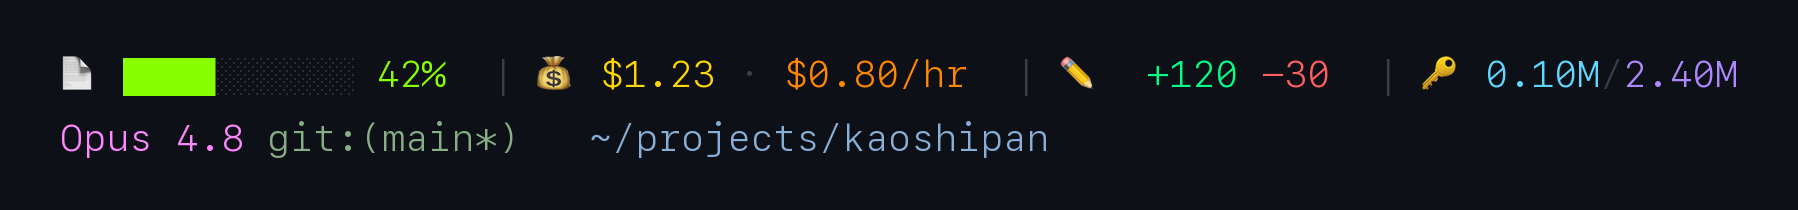
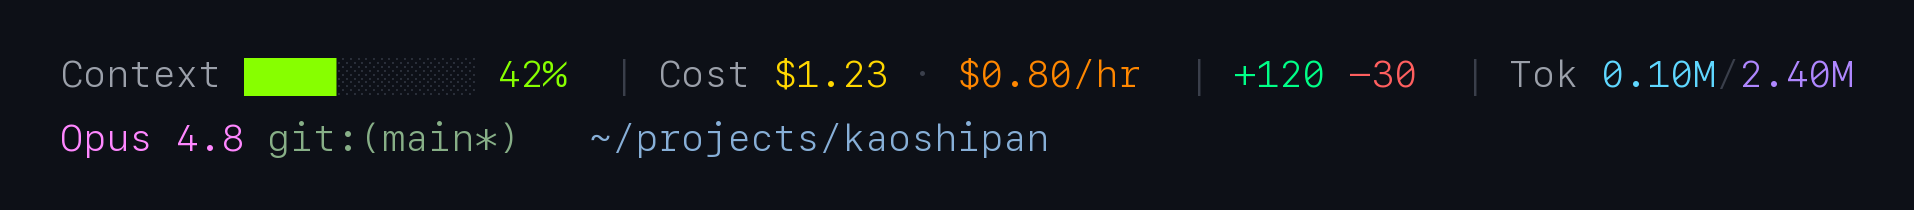
revert: drop emoji, keep colored text labels; regenerate preview

diff --git a/scripts/_render.py b/scripts/_render.py
@@ -21,22 +21,21 @@ C = {
     "48": (0, 255, 135), "203": (255, 95, 95), "81": (95, 215, 255),
     "141": (175, 135, 255), "213": (255, 135, 255), "108": (135, 175, 135),
     "110": (135, 175, 215), "dim": (58, 63, 75), "bf": (135, 255, 0),
-    "be": (42, 47, 58), "fg": (200, 205, 215),
+    "be": (42, 47, 58), "fg": (200, 205, 215), "gray": (155, 160, 170),
 }
 
 # token stream: ("text"|"emoji", content, color_key)
 line1 = [
-    ("emoji", "📄", None), ("sp", " ", None),
+    ("text", "Context", "gray"), ("sp", " ", None),
     ("text", "████", "bf"), ("text", "░░░░░░", "be"), ("sp", " ", None),
     ("text", "42%", "118"), ("sp", "  ", None),
     ("text", "|", "dim"), ("sp", " ", None),
-    ("emoji", "💰", None), ("sp", " ", None), ("text", "$1.23", "220"), ("sp", " ", None),
+    ("text", "Cost", "gray"), ("sp", " ", None), ("text", "$1.23", "220"), ("sp", " ", None),
     ("text", "·", "dim"), ("sp", " ", None), ("text", "$0.80/hr", "208"), ("sp", "  ", None),
     ("text", "|", "dim"), ("sp", " ", None),
-    ("emoji", "✏️", None), ("sp", "  ", None),
     ("text", "+120", "48"), ("sp", " ", None), ("text", "-30", "203"), ("sp", "  ", None),
     ("text", "|", "dim"), ("sp", " ", None),
-    ("emoji", "🔑", None), ("sp", " ", None),
+    ("text", "Tok", "gray"), ("sp", " ", None),
     ("text", "0.10M", "81"), ("text", "/", "dim"), ("text", "2.40M", "141"),
 ]
 line2 = [

diff --git a/SKILL.md b/SKILL.md
@@ -17,14 +17,12 @@ description: >-
 ### 第一行 — 实时指标
 | 显示 | 含义 | JSON 来源 | 颜色 |
 |------|------|-----------|------|
-| `📄 ████░░ 42%` | **上下文** 占用进度条 + 百分比 | `.context_window.used_percentage` | 118 lime 青柠 |
-| `💰 $1.23` | 本会话 **花费**(美元) | `.cost.total_cost_usd` | 220 gold 金 |
+| `Context ████░░ 42%` | **上下文** 占用进度条 + 百分比 | `.context_window.used_percentage` | 118 lime 青柠 |
+| `Cost $1.23` | 本会话 **花费**(美元) | `.cost.total_cost_usd` | 220 gold 金 |
 | `· $0.80/hr` | 燃烧率(每小时,需 ccusage) | `ccusage statusline` | 208 orange 橙 |
-| `✏️ +120 -30` | 本会话增/删行数 | `.cost.total_lines_added/removed` | 48 翠绿 / 203 珊瑚红 |
-| `🔑 0.10M` | **当前窗口** Token 消耗(百万) | `.context_window.total_input_tokens` | 81 cyan 青 |
+| `+120 -30` | 本会话增/删行数 | `.cost.total_lines_added/removed` | 48 翠绿 / 203 珊瑚红 |
+| `Tok 0.10M` | **当前窗口** Token 消耗(百万) | `.context_window.total_input_tokens` | 81 cyan 青 |
 | `/2.40M` | 会话累计 Token(读 transcript 求和) | `.transcript_path` 逐行 usage | 141 violet 紫 |
-
-> emoji 图标:📄上下文 / 💰花费 / ✏️ 改动行数 / 🔑Token。终端用 Apple Color Emoji 彩色渲染;`✏️` 后补一个空格防变体选择符占位糊。不想要 emoji 就把 `line2=` 那几行的 emoji 换回 `${GRAY}Context${RESET}` 之类文字标签即可。
 
 ### 第二行 — 身份信息
 | 显示 | 含义 | JSON 来源 | 颜色 |

diff --git a/README.md b/README.md
@@ -10,10 +10,10 @@ Line 1 = live metrics (context / cost / tokens), line 2 = identity (model / git 
 ## What it shows
 
 **Line 1 — metrics**
-- `📄 ████░░ 42%` — context window usage (bar + %)
-- `💰 $1.23 · $0.80/hr` — session cost + burn rate (rate needs `ccusage`)
-- `✏️ +120 -30` — lines added / removed this session
-- `🔑 0.10M/2.40M` — current-window tokens / session-cumulative tokens
+- `Context ████░░ 42%` — context window usage (bar + %)
+- `Cost $1.23 · $0.80/hr` — session cost + burn rate (rate needs `ccusage`)
+- `+120 -30` — lines added / removed this session
+- `Tok 0.10M/2.40M` — current-window tokens / session-cumulative tokens
 
 **Line 2 — identity**
 - `Opus 4.8` — current model (auto-shortened)